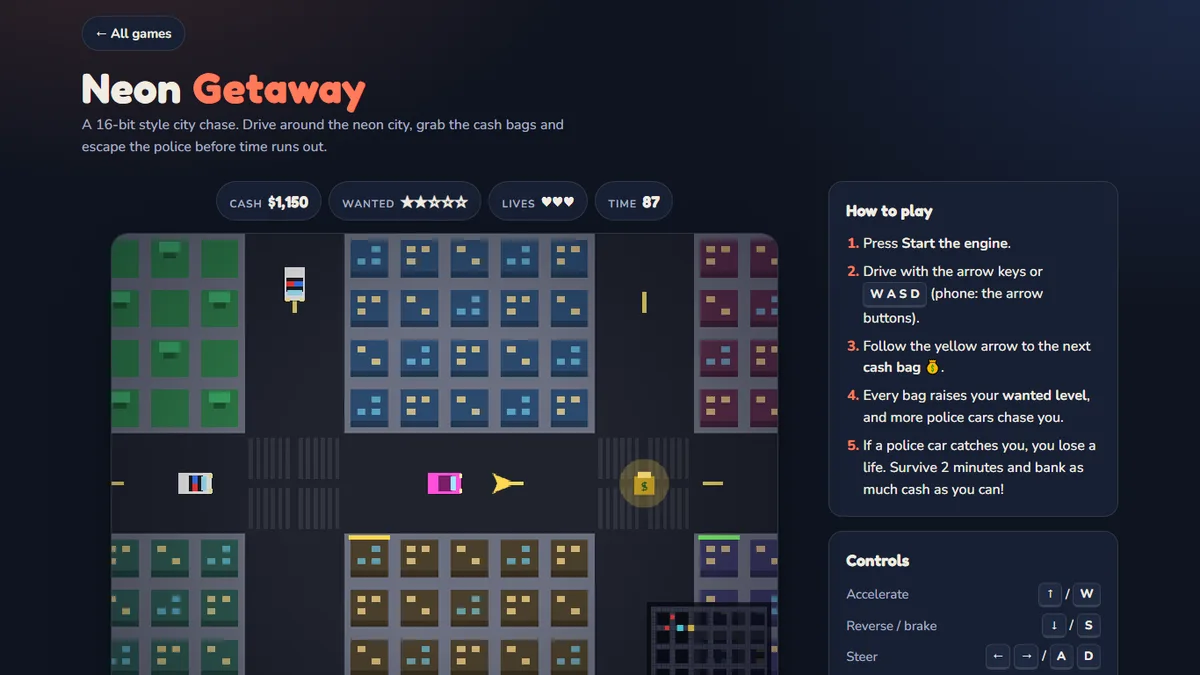
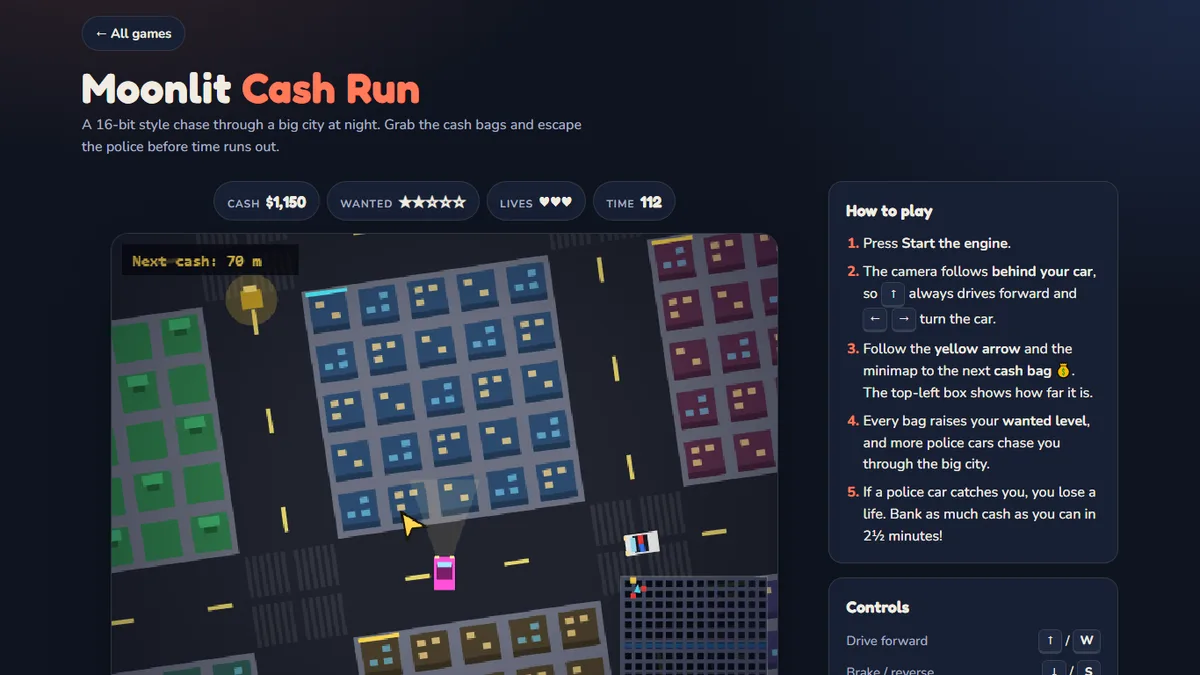
Update Moonlit Cash Run card for the big map and chase camera

diff --git a/index.html b/index.html
@@ -317,8 +317,8 @@
               <div class="project__body">
                 <p class="project__meta"><span>Game</span> Driving</p>
                 <h3 class="project__title">Moonlit Cash Run</h3>
-                <p>A 16-bit style city chase. Drive around the neon city, grab the cash bags and escape the police before time runs out.</p>
-                <p class="project__skills"><strong>Skills demonstrated:</strong> Car physics, police pathfinding (breadth-first search), minimap, keyboard and touch controls</p>
+                <p>A 16-bit style chase through a big city at night. The camera follows behind your car while you grab cash bags and escape the police.</p>
+                <p class="project__skills"><strong>Skills demonstrated:</strong> Rotating chase camera, car physics, police pathfinding (breadth-first search), minimap, keyboard and touch controls</p>
                 <div class="project__actions">
                   <a class="btn btn--primary btn--sm" href="https://dustinclarence.github.io/arcade/moonlit-cash-run/" target="_blank" rel="noopener">Play<span class="visually-hidden"> Moonlit Cash Run (opens in a new tab)</span></a>
                   <a class="btn btn--ghost btn--sm" href="https://github.com/dustinclarence/arcade" target="_blank" rel="noopener">Code<span class="visually-hidden"> of Moonlit Cash Run on GitHub (opens in a new tab)</span></a>
